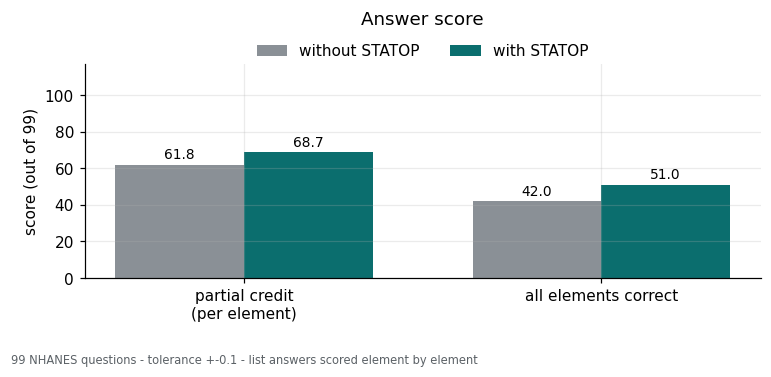
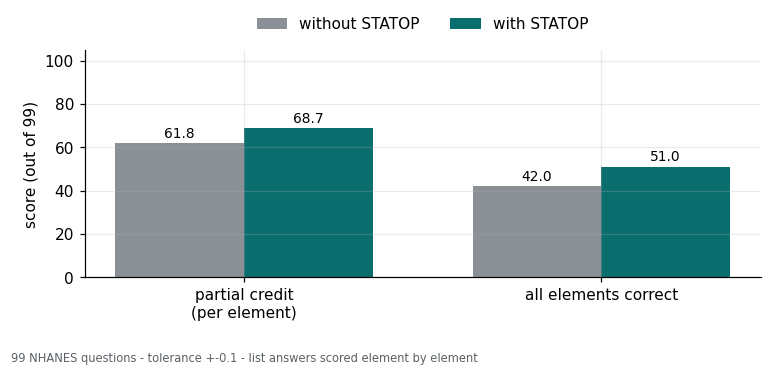
docs: one chart for type and test, legends out of the plot area
The question type and the test it led to are the same story told twice,
so they are now one chart: Q1 · One-way ANOVA, Q2 · Chi-square, and so
on. Short codes on the axis, with what they mean in the footnote.

Legends were sitting on top of the bars in three figures. They are now
outside the axes.

diff --git a/README.md b/README.md
@@ -154,11 +154,9 @@ pip install -e .
 
 ## 성적
 
-<img width="720" alt="answer_score" src="docs/img/answer_score.png" />
+<img width="720" alt="answer score" src="docs/img/answer_score.png" />
 
-<img width="720" alt="by question type" src="docs/img/by_question_type.png" />
-
-<img width="720" alt="by test used" src="docs/img/by_test.png" />
+<img width="720" alt="by question type and test" src="docs/img/by_type_and_test.png" />
 
 <img width="720" alt="timing" src="docs/img/timing.png" />
 
